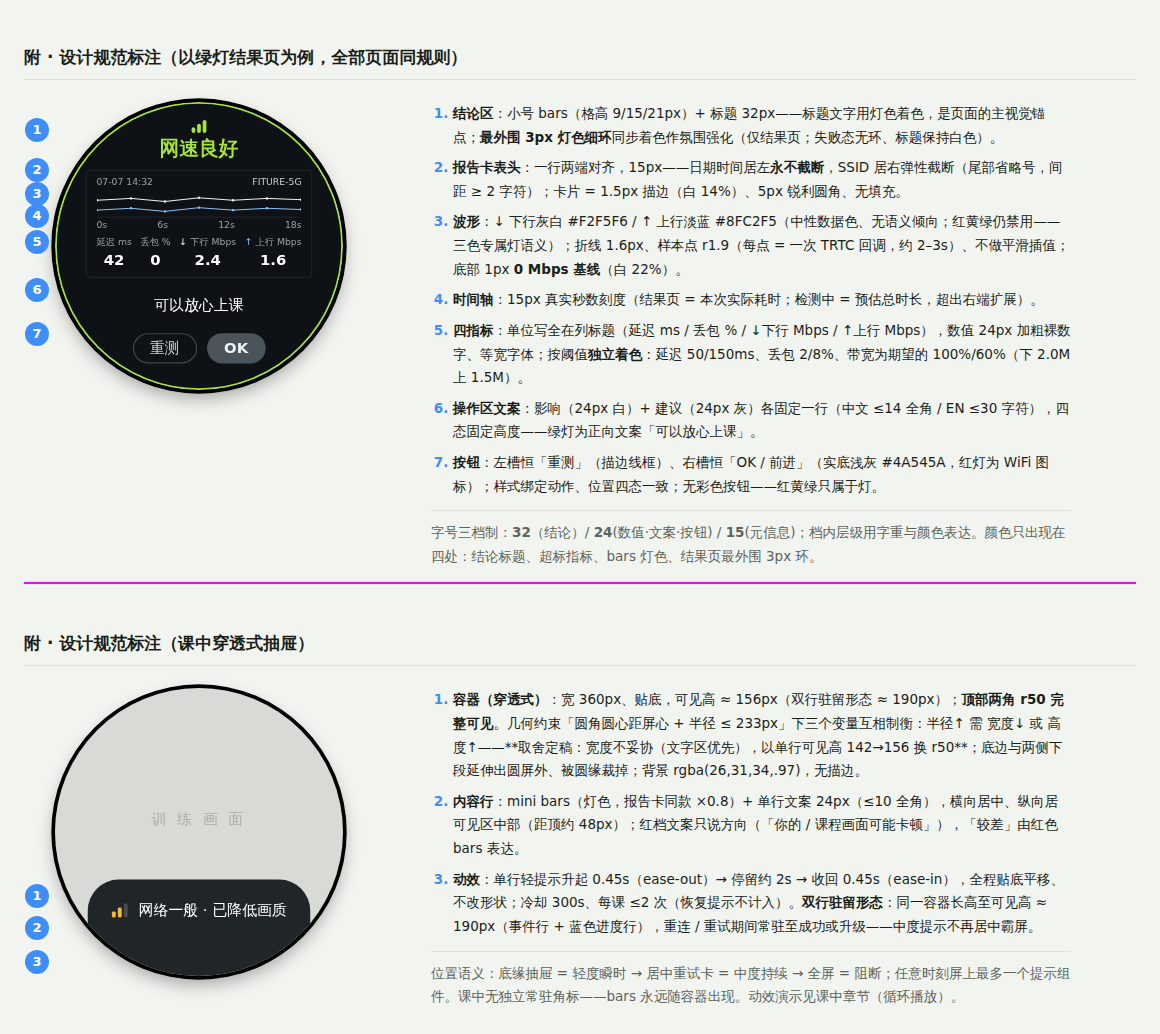
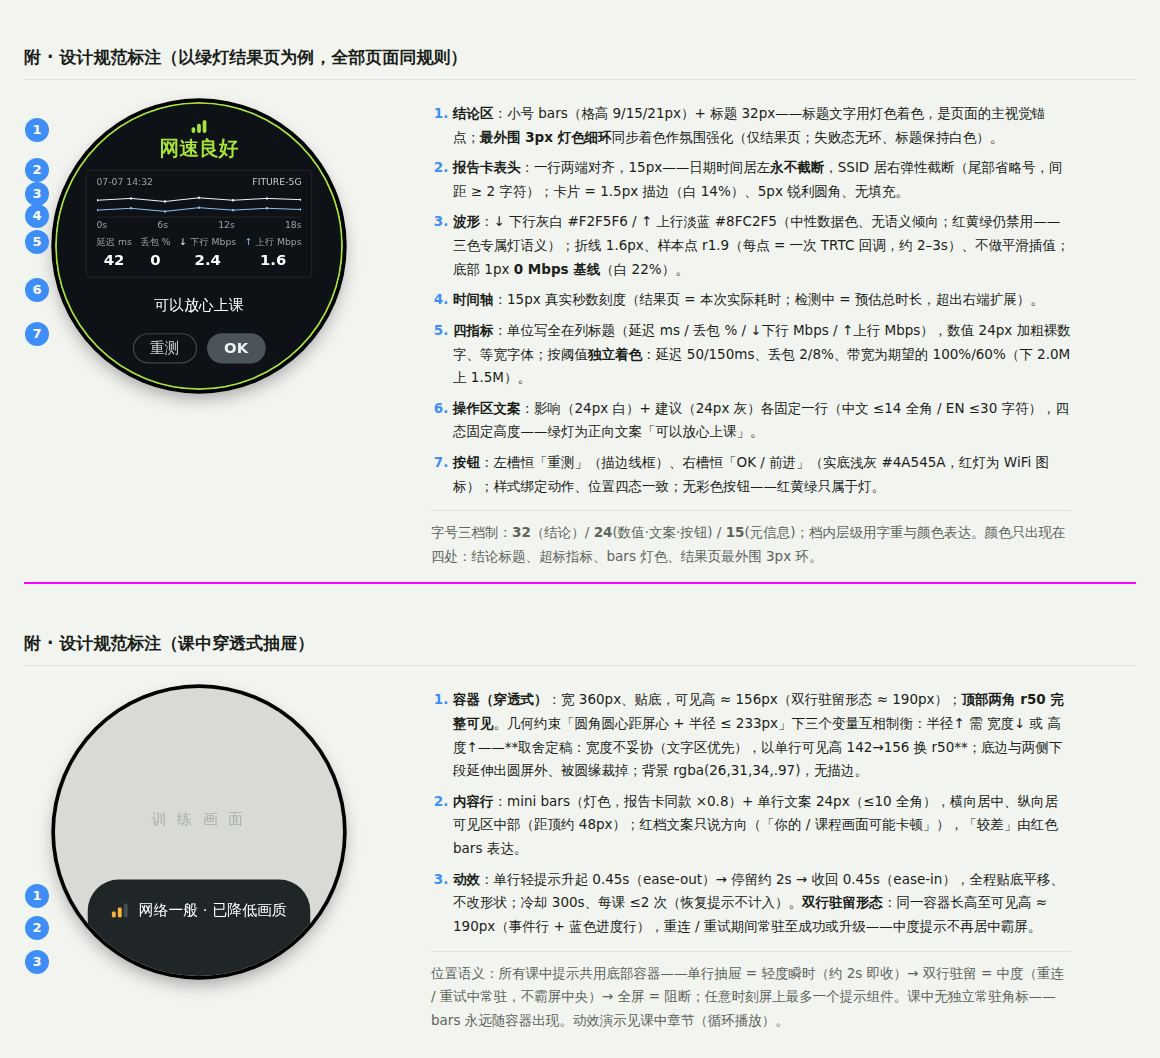
Finalize for development handoff: version bumps and last consistency fixes
- PRD-2 -> V1.2 (waveform color/animation/edge ring/boundary states
  finalized), PRD-3 -> V1.0 (in-class model review-approved, entering
  development)
- README: mark the suite as design-final, add a development entry-point
  guide (checklist first, C-P0 minimal patch, reference code, spec
  annotation as visual source of truth)
- Fix last stale wording: demo spec-annotation position-semantics note
  and a C comment still referenced the retired centered retry card
- Re-export the spec-annotation image

Claude-Session: https://claude.ai/code/session_01GK61VJL6HvXSFdCeuPzjiU

diff --git a/Demo-界面交互UI设计.html b/Demo-界面交互UI设计.html
@@ -709,7 +709,7 @@
         <li><b>内容行</b>：mini bars（灯色，报告卡同款 ×0.8）+ 单行文案 24px（≤10 全角），横向居中、纵向居可见区中部（距顶约 48px）；红档文案只说方向（「你的 / 课程画面可能卡顿」），「较差」由红色 bars 表达。</li>
         <li><b>动效</b>：单行轻提示升起 0.45s（ease-out）→ 停留约 2s → 收回 0.45s（ease-in），全程贴底平移、不改形状；冷却 300s、每课 ≤2 次（恢复提示不计入）。<b>双行驻留形态</b>：同一容器长高至可见高 ≈ 190px（事件行 + 蓝色进度行），重连 / 重试期间常驻至成功或升级——中度提示不再居中霸屏。</li>
       </ol>
-      <p class="anno-note">位置语义：底缘抽屉 = 轻度瞬时 → 居中重试卡 = 中度持续 → 全屏 = 阻断；任意时刻屏上最多一个提示组件。课中无独立常驻角标——bars 永远随容器出现。动效演示见课中章节（循环播放）。</p>
+      <p class="anno-note">位置语义：所有课中提示共用底部容器——单行抽屉 = 轻度瞬时（约 2s 即收）→ 双行驻留 = 中度（重连 / 重试中常驻，不霸屏中央）→ 全屏 = 阻断；任意时刻屏上最多一个提示组件。课中无独立常驻角标——bars 永远随容器出现。动效演示见课中章节（循环播放）。</p>
     </div>
   </div>
 

diff --git a/参考代码-课中提示状态机.c b/参考代码-课中提示状态机.c
@@ -151,7 +151,7 @@ void weak_network_notify_trtc_quality(int local_q, int remote_q)
     class_light_t prev = s_ch.shown;
     s_ch.shown = l;
 
-    /* 评审决议：课中无独立常驻角标——bars 永远随容器（抽屉/重试卡/阻断页）出现 */
+    /* 评审决议：课中无独立常驻角标——bars 永远随容器（抽屉单行/双行/阻断页）出现 */
     /* 轻度抽屉：仅下降沿弹一次；恢复到绿且此前红过/断过 → 恢复抽屉 */
     if (l > prev) {
         on_light_downgrade(l);

diff --git a/README.md b/README.md
@@ -22,7 +22,7 @@
 
 - **只有 5 分钟**：打开 `Demo-界面交互UI设计.html` 看图 → 读 PRD 第 3 章「方案总览」；
 - **评审 PRD**：总览 → 按模块读 PRD-1 / PRD-2 / PRD-3；「为什么这么定」的历史论证在 `backup/`；
-- **开发排期**：PRD 第 10 章里程碑（M1 = 模块 A+B，M2 = 模块 C，M3 = 上报）→ 抄参考代码骨架；
+- **开发排期**：PRD 第 10 章里程碑（M1 = 模块 A+B，M2 = 模块 C，M3 = 上报）；课中可立即合入 C-P0 最小改动包（PRD-3 §6）→ 抄参考代码骨架；
 - **待确认事项**：PRD 第 9 章风险表——首要项是 TRTC 课外测速可用性实测（蔡博），备选为自研文件测速（参考 PC 教练端，张恒）。
 
 ## 核心设计原则（一屏速览）
@@ -36,4 +36,6 @@
 
 ## 版本
 
-当前版本：总览 **V1.2**（拆分版）+ PRD-1/2 **V1.1**（界面定稿）+ PRD-3 **V0.9**（课中设计中）。迭代摘要见 `backup/决策参考与迭代过程.html` Part 3；逐次变更见 git 提交记录。
+当前版本：总览 **V1.2**（拆分版）+ PRD-1 **V1.1** + PRD-2 **V1.2**（界面与波形定稿）+ PRD-3 **V1.0**（课中评审定稿）。**全套设计已定稿、进入开发交接。**迭代摘要见 `backup/决策参考与迭代过程.html` Part 3；逐次变更见 git 提交记录。
+
+**开发跟进入口**：① 先过一遍 [`开发注意事项-业务逻辑清单.md`](开发注意事项-业务逻辑清单.md)（可勾选的约束清单 + 阻塞项表）；② 课中改造从 PRD-3 §6 的 **C-P0 最小改动包**起步（纯逻辑修复、不依赖新 UI，当前版本即可合入），§2.3 有现状代码的函数级改造映射；③ 三份参考代码（检测状态机 C / 课中提示状态机 C / 后端 FastAPI）可直接对照抄骨架；④ 视觉规格以 `images/界面-设计规范标注.png` 与在线 Demo 为准。

diff --git a/PRD-3-课中双端提示.md b/PRD-3-课中双端提示.md
@@ -2,7 +2,7 @@
 
 | 项 | 内容 |
 | --- | --- |
-| 版本 | V0.9（设计中——基于现状代码 `weak_network_manager.c` 的改造方案） |
+| 版本 | V1.0（评审定稿，进入开发——两组件模型：抽屉[单行瞬时 / 双行驻留] + 全屏中断页；基于现状代码 `weak_network_manager.c` 的函数级改造方案） |
 | 范围 | ATOM 设备端课中提示（抽屉[单行瞬时 / 双行驻留] / 中断页）· 存量弹窗收敛 · 带宽保护 · 手机 App 课中 · 启动加载页 |
 | 前置阅读 | [`PRD-atom网络状态检测与信号同步.md`](./PRD-atom网络状态检测与信号同步.md)（三态定义 / 模块 B 检测逻辑 / 文案总表） |
 | 现状代码 | [`backup/现状代码-weak_network_manager.c`](./backup/现状代码-weak_network_manager.c)（2026-07 快照，本文 §1 逐条解读） |

diff --git a/PRD-2-网速测试小程序.md b/PRD-2-网速测试小程序.md
@@ -2,7 +2,7 @@
 
 | 项 | 内容 |
 | --- | --- |
-| 版本 | V1.1（自总览 PRD V1.1 拆出，内容一致） |
+| 版本 | V1.2（定稿：波形淡蓝配色 / 逐点刷新动画 / 结果页 3px 外环 / 边界与空态补全） |
 | 范围 | 设备端网速测试小程序全部六态（原模块 A 的 A4）|
 | 前置阅读 | [`PRD-atom网络状态检测与信号同步.md`](./PRD-atom网络状态检测与信号同步.md)（三态定义 / **检测逻辑模块 B：数据源、调度、TRTC 测速实现、阈值防抖、上报**——本 App 是模块 B 的主要消费方，测速实现细节全部在 B3） |
 | 配套代码 | [`参考代码-网络检测状态机.c`](./参考代码-网络检测状态机.c) · [`参考代码-后端服务.py`](./参考代码-后端服务.py) |
